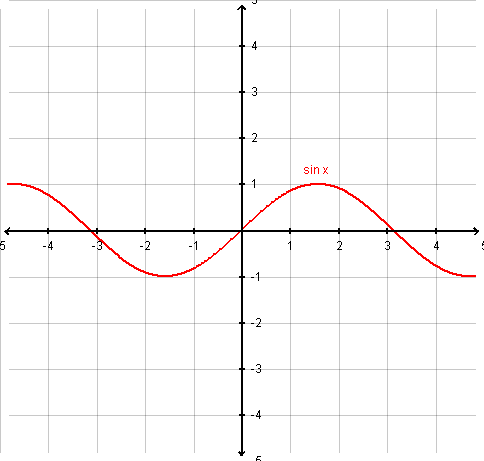
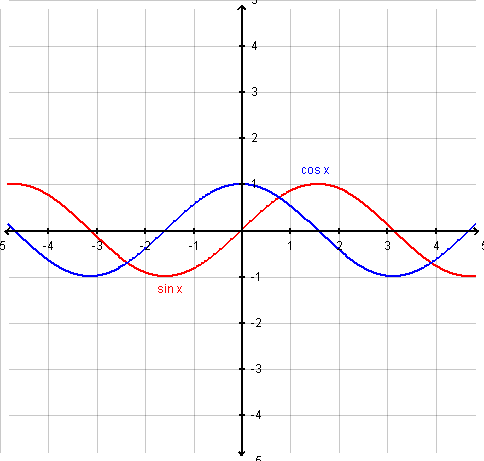
Updated graphs

diff --git a/demos/MainPageGraphs.java b/demos/MainPageGraphs.java
@@ -1,3 +1,5 @@
+import java.awt.Color;
+
 import net.net16.jeremiahlowe.scicalc.Enums.HorizontalAllignment;
 import net.net16.jeremiahlowe.scicalc.Enums.VerticalAllignment;
 import net.net16.jeremiahlowe.scicalc.cartesian_plane.CoordinatePlane;
@@ -7,7 +9,7 @@ import net.net16.jeremiahlowe.scicalc.functions.std.UnaryFunction;
 public class MainPageGraphs {
 	public static void main(String[] args) throws Exception{
 		CoordinatePlane cp = PlaneFactory.makePlaneWindow2D();
-		cp.clearAllFunctions();
+		
 		UnaryFunction uf = new UnaryFunction() {
 			@Override
 			public double f(double x) {
@@ -22,9 +24,27 @@ public class MainPageGraphs {
 		uf.getFunctionLabel().vAllign = allign2;
 		HorizontalAllignment allign = HorizontalAllignment.Custom;
 		allign.setCustomPercent(0.35d);
-		uf.getFunctionLabel().hAllign = allign;;
+		uf.getFunctionLabel().hAllign = allign;
+		
+		UnaryFunction uf2 = new UnaryFunction() {
+			@Override
+			public double f(double x) {
+				return Math.cos(x);
+			}
+		};
+		cp.addFunction(uf2);
+		uf2.setLineWidth(2);
+		uf2.getFunctionLabel().label = "cos x";
+		uf2.setColor(Color.BLUE);
+		VerticalAllignment allign4 = VerticalAllignment.Custom;
+		allign4.setCustomPercent(0.63d);
+		uf2.getFunctionLabel().vAllign = allign4;
+		HorizontalAllignment allign3 = HorizontalAllignment.Custom;
+		allign.setCustomPercent(0.35d);
+		uf2.getFunctionLabel().hAllign = allign3;
+		
 		cp.recalculate();
 		cp.takeScreenshot("demos/images/sine-main-page.png", "png");
-		System.exit(0);
+		//System.exit(0);
 	}
 }
